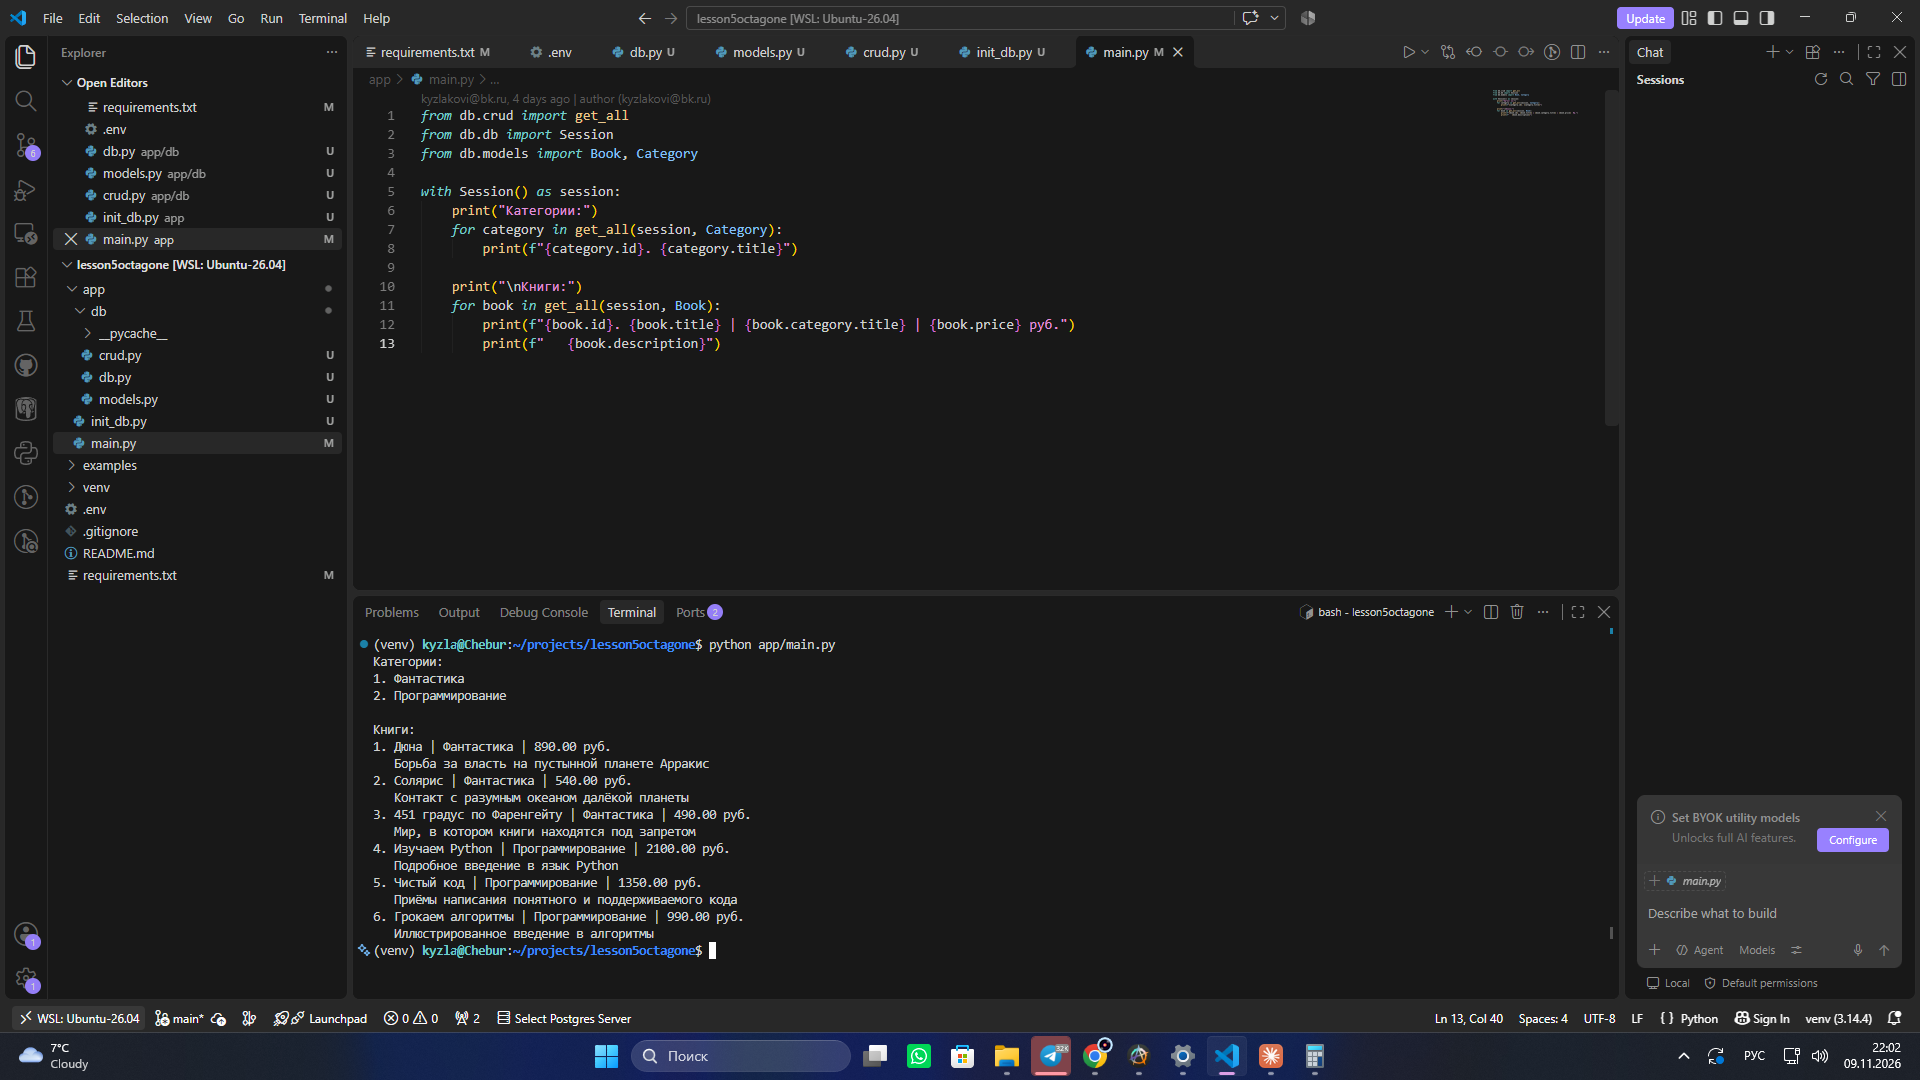
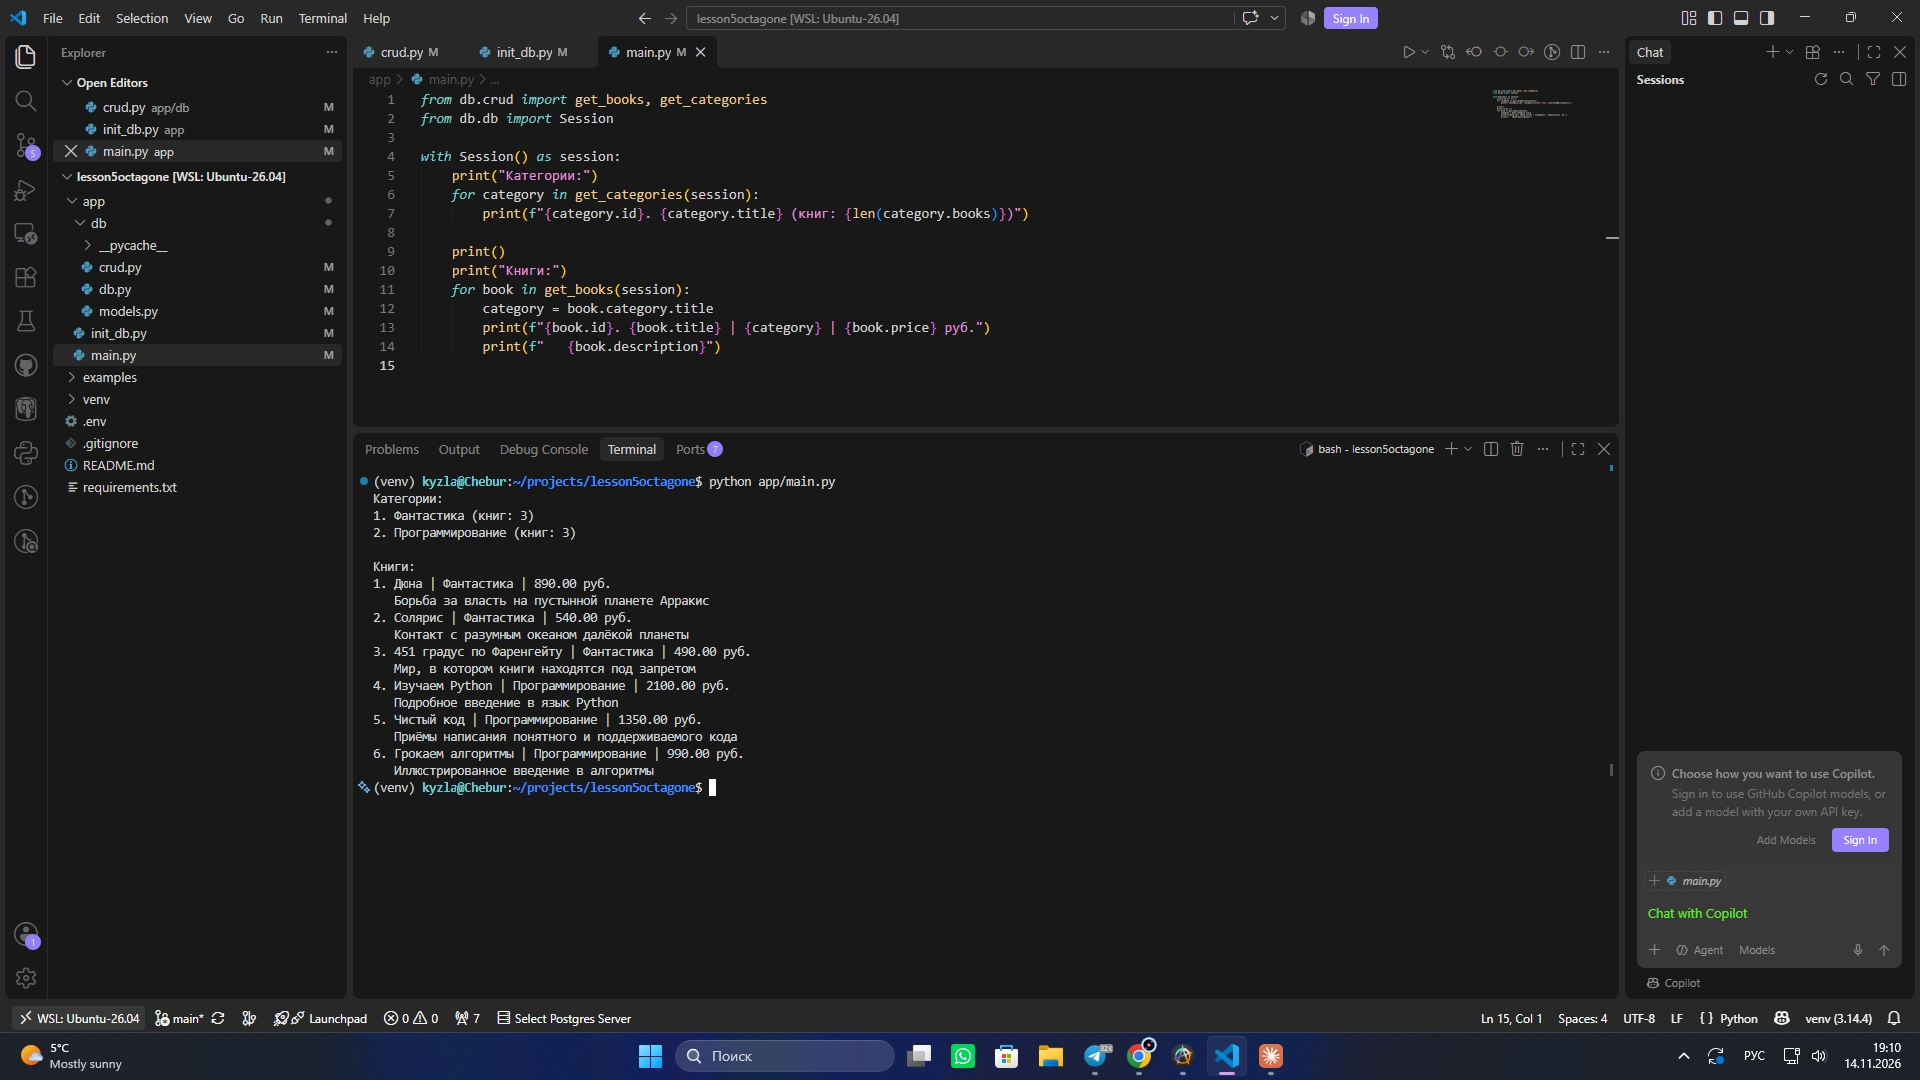
Исправления по замечаниям: модели

diff --git a/app/db/crud.py b/app/db/crud.py
@@ -1,27 +1,127 @@
 from sqlalchemy import select
+from sqlalchemy.orm import selectinload
+
+from db.models import Category, Book
 
 
-def create(session, obj):
-    session.add(obj)
+def get_category_by_title(session, title):
+    query = select(Category).where(Category.title == title)
+    return session.scalar(query)
+
+
+def get_category(session, category_id):
+    return session.get(Category, category_id)
+
+
+def get_categories(session):
+    return session.scalars(select(Category).order_by(Category.id)).all()
+
+
+def create_category(session, title):
+    if get_category_by_title(session, title) is not None:
+        raise ValueError(f"Категория {title} уже существует")
+    
+    category = Category(title=title)
+    session.add(category)
     session.commit()
-    return obj
+    return category
 
 
-def get(session, model, obj_id):
-    return session.get(model, obj_id)
+def update_category(session, category_id, new_title):
+    category = get_category(session, category_id)
+    if category is None:
+        raise ValueError(f"Категория с id {category_id} не найдена")
 
+    same_title = get_category_by_title(session, new_title)
+    if same_title is not None and same_title.id != category_id:
+        raise ValueError(f"Категория {new_title} уже существует")
 
-def get_all(session, model):
-    return session.scalars(select(model).order_by(model.id)).all()
-
-
-def update(session, obj, **fields):
-    for name, value in fields.items():
-        setattr(obj, name, value)
+    category.title = new_title
     session.commit()
-    return obj
+    return category
 
 
-def delete(session, obj):
-    session.delete(obj)
+def delete_category(session, category_id):
+    category = get_category(session, category_id)
+    if category is None:
+        raise ValueError(f"Категория с id {category_id} не найдена")
+
+    session.delete(category)
+    session.commit()
+
+
+def get_book(session, book_id):
+    query = select(Book).options(selectinload(Book.category)).where(Book.id == book_id)
+    return session.scalar(query)
+
+
+def get_book_by_title(session, title):
+    query = select(Book).where(Book.title == title)
+    return session.scalar(query)
+
+
+def get_books(session):
+    query = select(Book).options(selectinload(Book.category)).order_by(Book.id)
+    return session.scalars(query).all()
+
+
+def get_books_by_category(session, category_id):
+    query = select(Book).where(Book.category_id == category_id).order_by(Book.id)
+    return session.scalars(query).all()
+
+
+def create_book(session, title, description, price, category_id):
+    category = get_category(session, category_id)
+    
+    if category is None:
+        raise ValueError(f"Категория с id {category_id} не найдена")
+    
+    same_title = get_book_by_title(session, title)
+    if same_title is not None:
+        raise ValueError(f"Книга с названием {title} уже существует")
+    
+    if price < 0:
+        raise ValueError("Цена не может быть отрицательной")
+
+    book = Book(
+        title=title,
+        description=description,
+        price=price,
+        category_id=category_id,
+    )
+    session.add(book)
+    session.commit()
+    return book
+
+
+def update_book(session, book_id, new_title, new_description, new_price, new_category_id):
+    book = get_book(session, book_id)
+    if book is None:
+        raise ValueError(f"Книга с id {book_id} не найдена")
+
+    category = get_category(session, new_category_id)
+    if category is None:
+        raise ValueError(f"Категория {new_category_id} не найдена")
+
+    same_title = get_book_by_title(session, new_title)
+    if same_title is not None and same_title.id != book_id:
+        raise ValueError(f"Название {new_title} уже существует")
+
+    if new_price < 0:
+        raise ValueError("Цена не может быть отрицательной")
+
+    book.title = new_title
+    book.description = new_description
+    book.price = new_price
+    book.category_id = new_category_id
+
+    session.commit()
+    return book
+
+
+def delete_book(session, book_id):
+    book = get_book(session, book_id)
+    if book is None:
+        raise ValueError(f"Книга с id {book_id} не найдена")
+    session.delete(book)
     session.commit()

diff --git a/app/init_db.py b/app/init_db.py
@@ -1,22 +1,58 @@
-from db.crud import create
+from db.crud import create_book, create_category, get_categories
 from db.db import Base, Session, engine
-from db.models import Book, Category
 
 Base.metadata.create_all(engine)
 
 with Session() as session:
-    fiction = create(session, Category(title="Фантастика"))
-    programming = create(session, Category(title="Программирование"))
+    if get_categories(session):
+        print("База данных уже заполнена")
+    else:
+        fiction = create_category(session, "Фантастика")
 
-    books = [
-        Book(title="Дюна", description="Борьба за власть на пустынной планете Арракис", price=890, category=fiction),
-        Book(title="Солярис", description="Контакт с разумным океаном далёкой планеты", price=540, category=fiction),
-        Book(title="451 градус по Фаренгейту", description="Мир, в котором книги находятся под запретом", price=490, category=fiction),
-        Book(title="Изучаем Python", description="Подробное введение в язык Python", price=2100, category=programming),
-        Book(title="Чистый код", description="Приёмы написания понятного и поддерживаемого кода", price=1350, category=programming),
-        Book(title="Грокаем алгоритмы", description="Иллюстрированное введение в алгоритмы", price=990, category=programming),
-    ]
-    for book in books:
-        create(session, book)
+        create_book(
+            session,
+            "Дюна",
+            "Борьба за власть на пустынной планете Арракис",
+            890,
+            fiction.id,
+        )
+        create_book(
+            session,
+            "Солярис",
+            "Контакт с разумным океаном далёкой планеты",
+            540,
+            fiction.id,
+        )
+        create_book(
+            session,
+            "451 градус по Фаренгейту",
+            "Мир, в котором книги находятся под запретом",
+            490,
+            fiction.id,
+        )
 
-print("База данных заполнена")
+        programming = create_category(session, "Программирование")
+
+        create_book(
+            session,
+            "Изучаем Python",
+            "Подробное введение в язык Python",
+            2100,
+            programming.id,
+        )
+        create_book(
+            session,
+            "Чистый код",
+            "Приёмы написания понятного и поддерживаемого кода",
+            1350,
+            programming.id,
+        )
+        create_book(
+            session,
+            "Грокаем алгоритмы",
+            "Иллюстрированное введение в алгоритмы",
+            990,
+            programming.id,
+        )
+
+        print("База данных заполнена")

diff --git a/app/db/models.py b/app/db/models.py
@@ -1,6 +1,6 @@
 from decimal import Decimal
 
-from sqlalchemy import ForeignKey, Numeric
+from sqlalchemy import String, Integer, Numeric, Text, ForeignKey
 from sqlalchemy.orm import Mapped, mapped_column, relationship
 
 from db.db import Base
@@ -10,16 +10,17 @@ class Category(Base):
     __tablename__ = "categories"
 
     id: Mapped[int] = mapped_column(primary_key=True)
-    title: Mapped[str]
+    title: Mapped[str] = mapped_column(String(255), unique=True)
+    books: Mapped[list["Book"]] = relationship(back_populates="category", cascade="all, delete-orphan")
 
 
 class Book(Base):
     __tablename__ = "books"
 
     id: Mapped[int] = mapped_column(primary_key=True)
-    title: Mapped[str]
-    description: Mapped[str]
+    title: Mapped[str] = mapped_column(String(255), unique=True)
+    description: Mapped[str] = mapped_column(Text, default="")
     price: Mapped[Decimal] = mapped_column(Numeric(10, 2))
-    url: Mapped[str] = mapped_column(default="")
-    category_id: Mapped[int] = mapped_column("category", ForeignKey("categories.id"))
-    category: Mapped[Category] = relationship()
+    url: Mapped[str] = mapped_column(String(500), default="")
+    category_id: Mapped[int] = mapped_column(ForeignKey("categories.id", ondelete="CASCADE"))
+    category: Mapped["Category"] = relationship(back_populates="books")

diff --git a/app/main.py b/app/main.py
@@ -1,13 +1,14 @@
-from db.crud import get_all
+from db.crud import get_books, get_categories
 from db.db import Session
-from db.models import Book, Category
 
 with Session() as session:
     print("Категории:")
-    for category in get_all(session, Category):
-        print(f"{category.id}. {category.title}")
+    for category in get_categories(session):
+        print(f"{category.id}. {category.title} (книг: {len(category.books)})")
 
-    print("\nКниги:")
-    for book in get_all(session, Book):
-        print(f"{book.id}. {book.title} | {book.category.title} | {book.price} руб.")
+    print()
+    print("Книги:")
+    for book in get_books(session):
+        category = book.category.title
+        print(f"{book.id}. {book.title} | {category} | {book.price} руб.")
         print(f"   {book.description}")

diff --git a/app/db/db.py b/app/db/db.py
@@ -12,10 +12,11 @@ engine = create_engine(URL.create(
     password=os.getenv("DB_PASSWORD"),
     host=os.getenv("DB_HOST"),
     port=int(os.getenv("DB_PORT")),
-    database=os.getenv("DB_NAME"),
+    database=os.getenv("DB_NAME")   
 ))
-Session = sessionmaker(engine)
 
+Session = sessionmaker(engine)
 
 class Base(DeclarativeBase):
     pass
+
